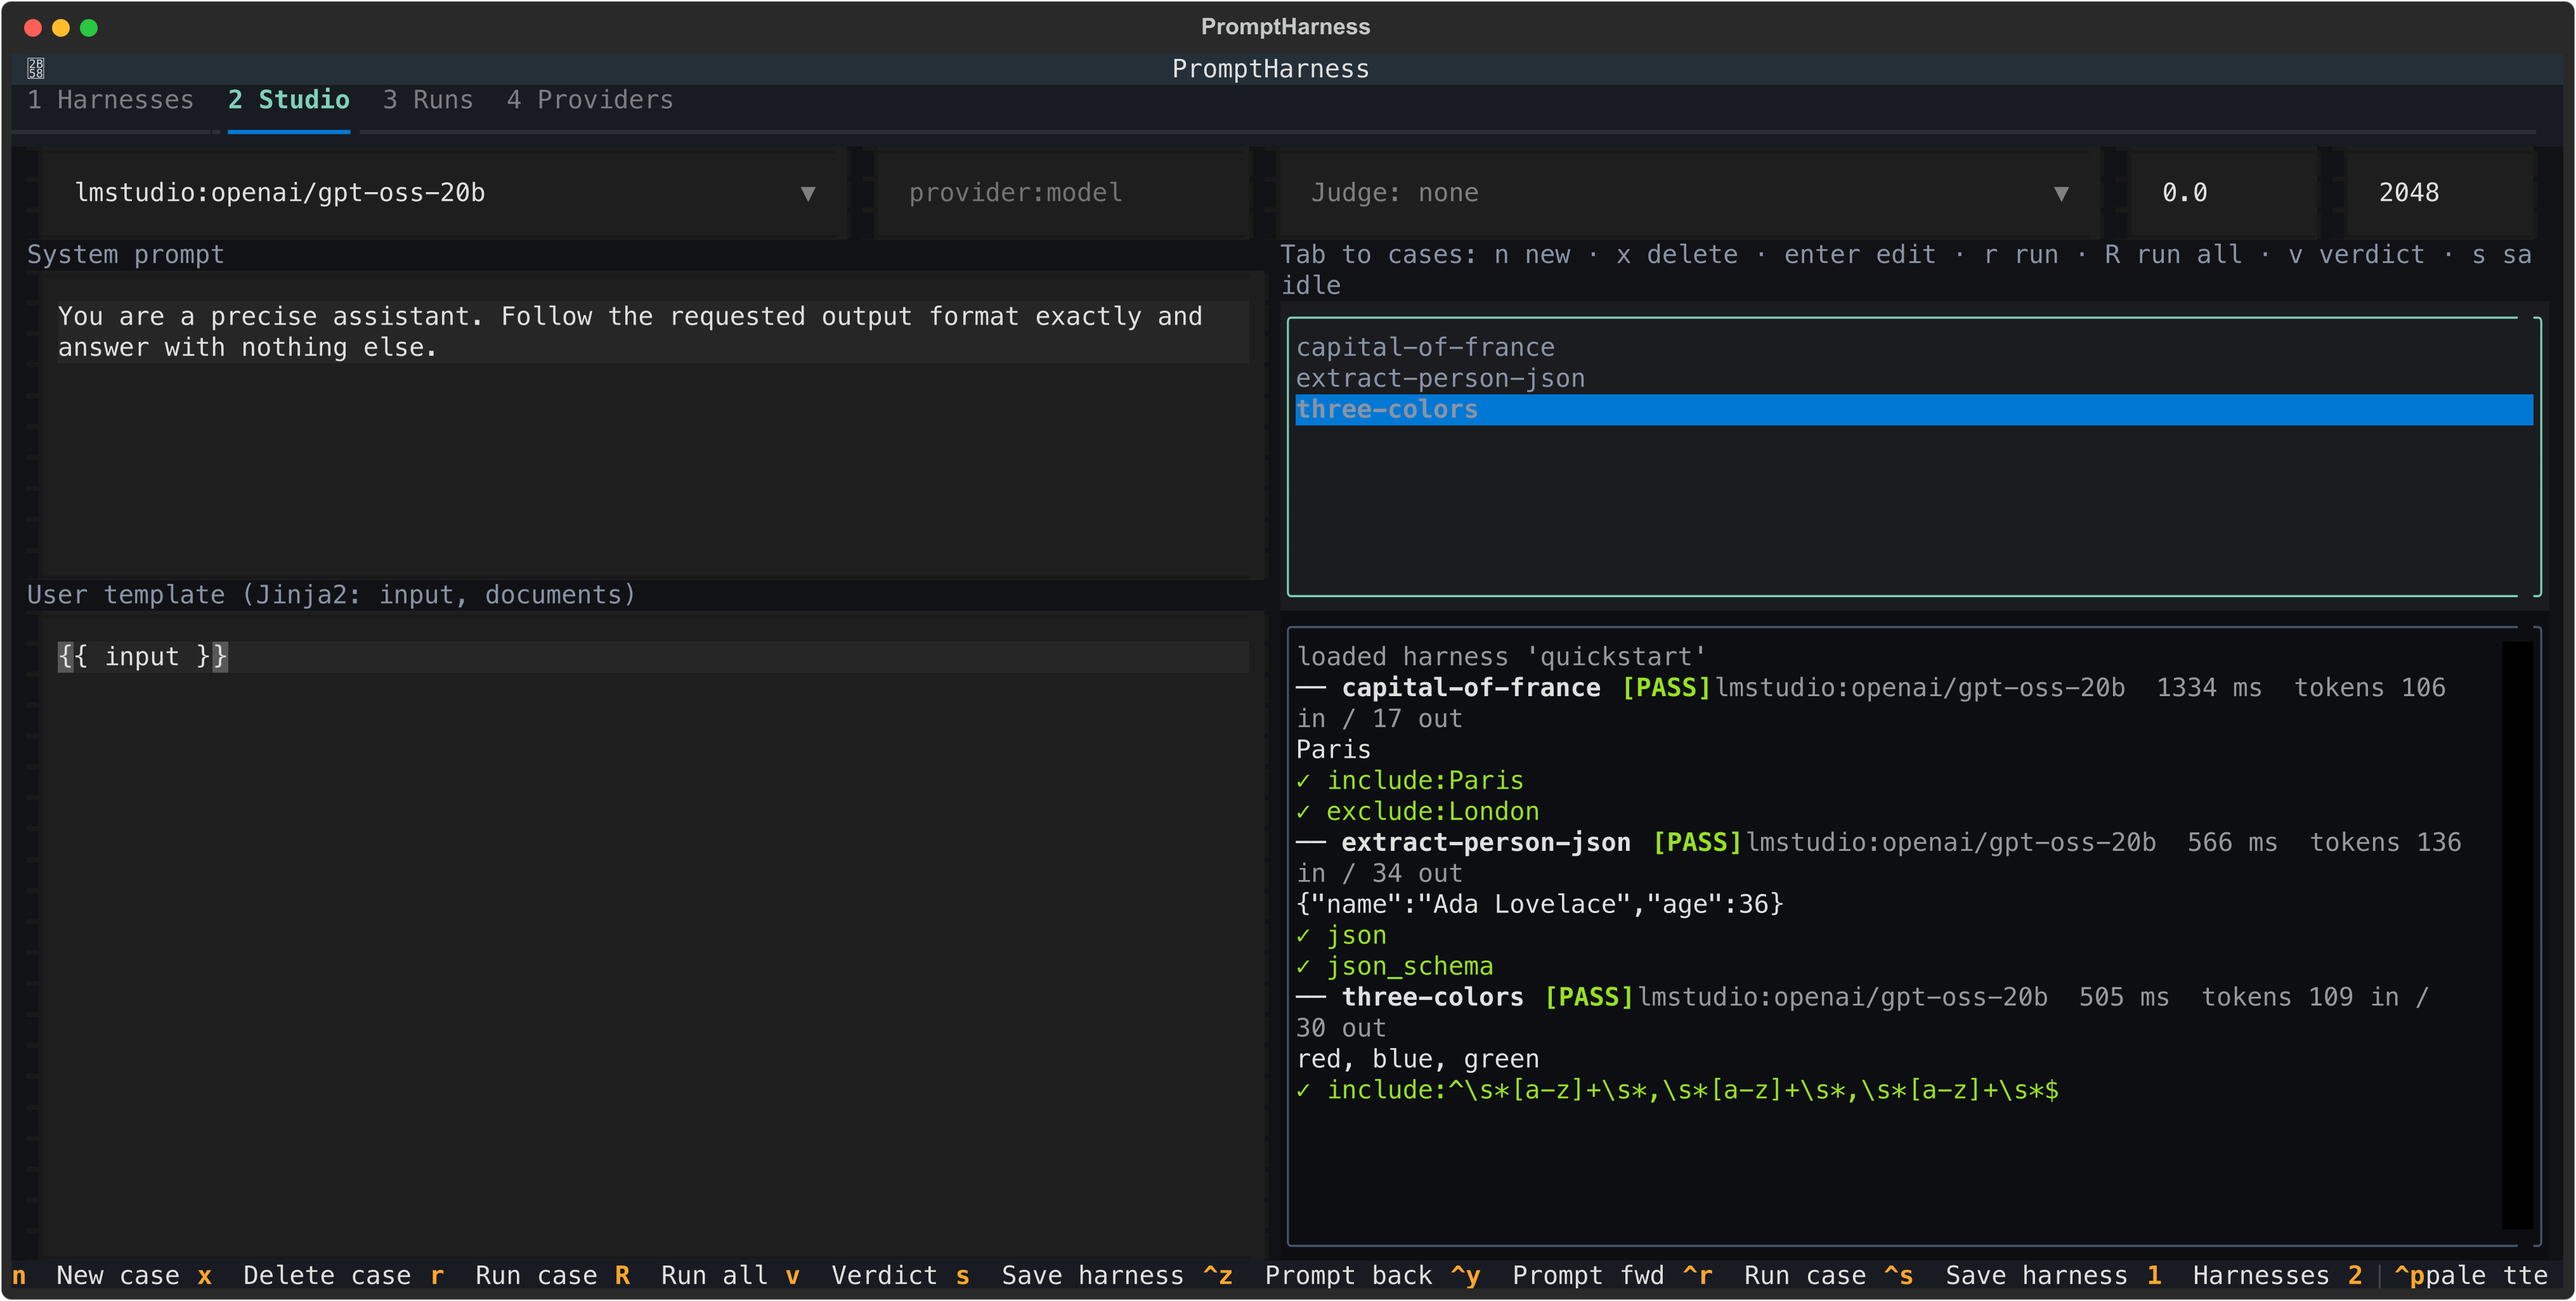
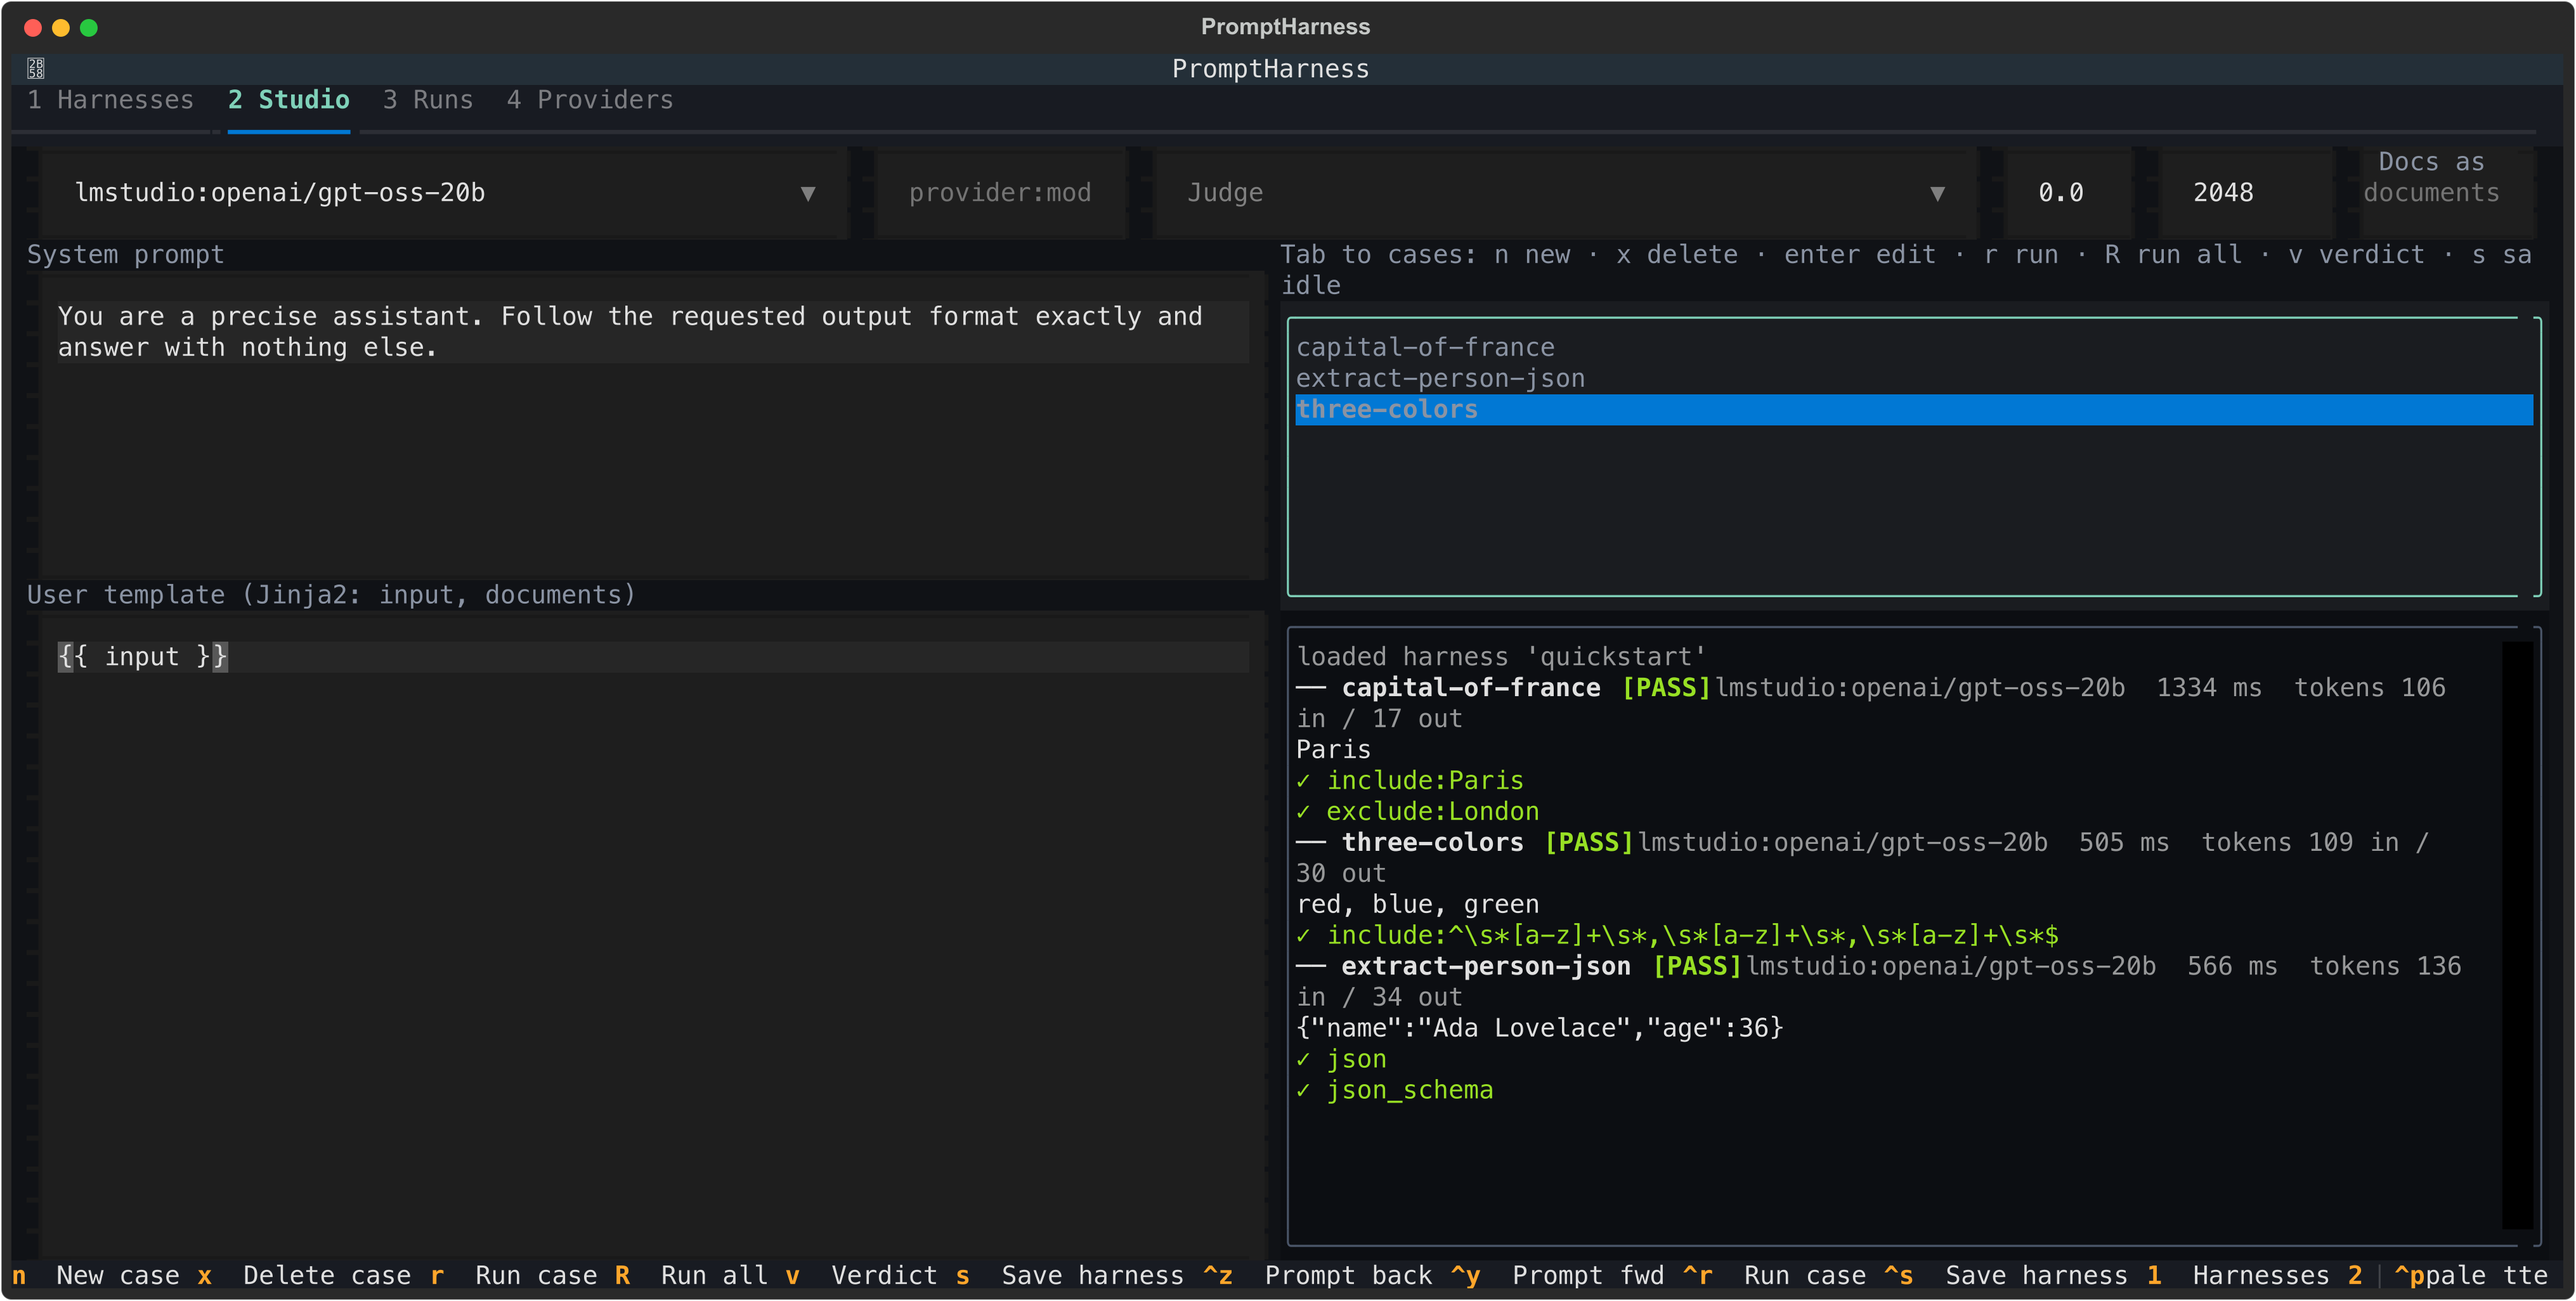
docs: regenerate the Studio screenshot; clarify where documents live and what inlining embeds
The Docs as input drops its inner padding so the 'documents' placeholder fits.

diff --git a/README.md b/README.md
@@ -392,7 +392,7 @@ A document problem never stops a run: the case that uses the document ends with 
 
 ### Sharing harnesses with documents
 
-`promptharness export NAME --inline-documents` embeds each case's documents in the file, binary ones included (each file at most 10 MB), and importing the file restores them under the data directory. See [Export and import](#export-and-import).
+`promptharness export NAME --inline-documents` embeds each case's documents in the file, binary ones included (each file at most 10 MB), and importing the file restores them under the data directory. It embeds the contents of every listed file, including the target of a symlink, so review the file before you share it. See [Export and import](#export-and-import).
 
 ### Examples
 
@@ -457,7 +457,7 @@ promptharness run summarize-example --model openai:gpt-4o-mini
 
 ## Where data lives
 
-Everything (providers, harnesses, runs, imported documents) is in one SQLite database, `promptharness.db`, in your platform's user data directory (via `platformdirs`; for example `~/Library/Application Support/promptharness` on macOS and `~/.local/share/promptharness` on Linux). Set `PROMPTHARNESS_HOME` to use a different directory, for a separate set of data or for throwaway experiments:
+Providers, harnesses and runs are in one SQLite database, `promptharness.db`, in your platform's user data directory (via `platformdirs`; for example `~/Library/Application Support/promptharness` on macOS and `~/.local/share/promptharness` on Linux). Documents restored by an import are files under `<data dir>/documents/<harness name>/`; the database only holds their paths. Set `PROMPTHARNESS_HOME` to use a different directory, for a separate set of data or for throwaway experiments:
 
 ```sh
 PROMPTHARNESS_HOME=/tmp/ph-scratch promptharness
